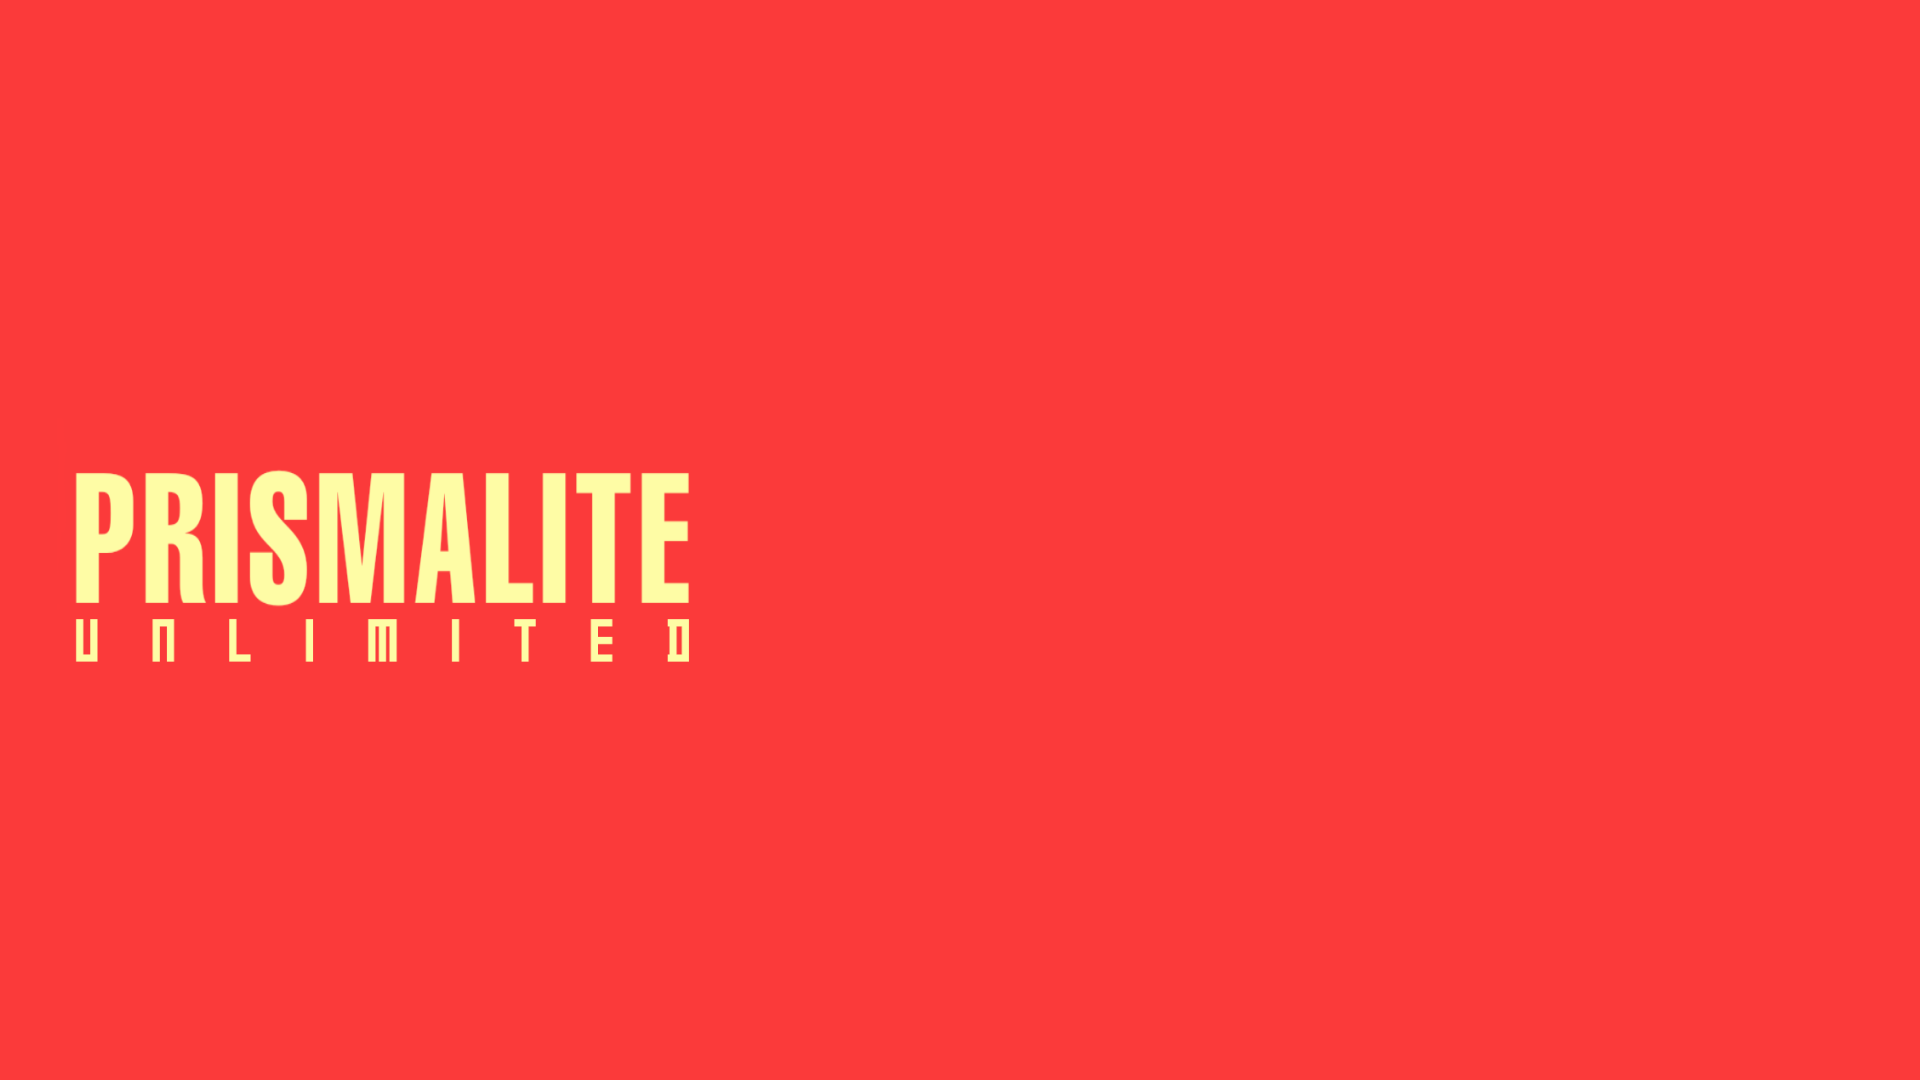
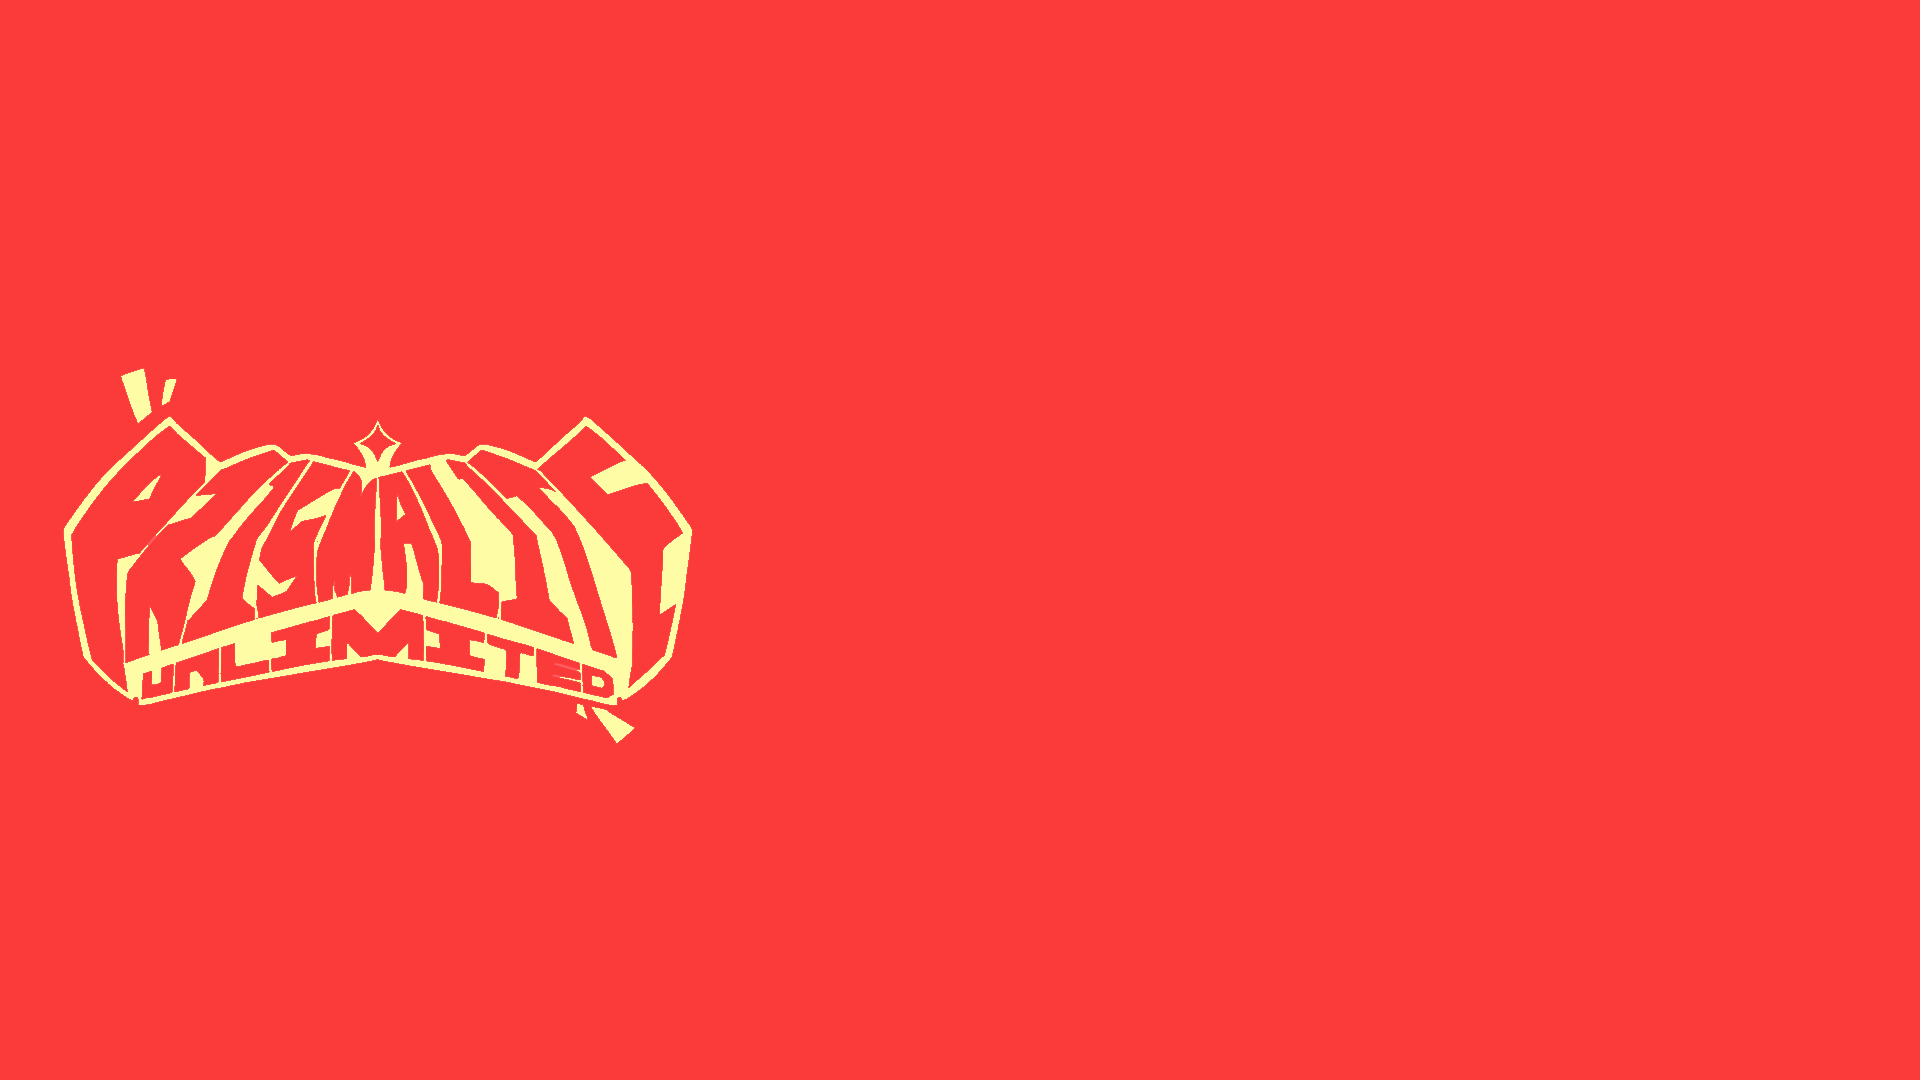
Add files via upload

Changed region(s): [[0.0312, 0.3361, 0.375, 0.7028]]

diff --git a/index.html b/index.html
@@ -8,6 +8,7 @@
     <link rel="stylesheet" href="style.css">
 </head>
 <body>
+
     <header id="header">
         <div class="header__container">
             <div class="flex__container">
@@ -17,13 +18,13 @@
                 <nav class="nav__header">
                     <ul>
                         <li class="nav__item"><a href="#home">Home</a></li>
-                        <li class="nav__item"><a href="404.html">Jogos</a></li>
+                        <li class="nav__item"><a href="#game">Jogos</a></li>
                         <li class="nav__item"><a href="#about">Sobre</a></li>
                     </ul>
                 </nav>
-                <div class="play__btn">
-                    <a href="" target=""><button class="btn">Breve!</button></a>
-                </div>
+                <!-- <div class="play__btn">
+                    <a href="rivals.html" target=""><button class="btn">Breve!</button></a>
+                </div> -->
             </div>
             <!-- Responsive Header -->
         <div class="resp__header" id="resp__header">
@@ -33,7 +34,7 @@
             <nav class="nav_resp__header">
                 <ul>
                     <li class="nav__item"><a href="#home">Home</a></li>
-                    <li class="nav__item"><a href="games.html">Jogos</a></li>
+                    <li class="nav__item"><a href="#game">Jogos</a></li>
                     <li class="nav__item"><a href="#about">Sobre</a></li>
                 </ul>
             </nav>
@@ -42,32 +43,57 @@
     </header>
     <div class="container">
         <div class="banner__home" id="home">
-            <img src="helltower-logo.png" alt="Assault on the Helltower™ Logo" class="home__logo" >
-            <div class="gx__btn">
-                <a href="" target=""><button>Em breve!</button></a>
+            <img src="rivals_logo_common.png" alt="Rivals to the Death™ Logo" class="home__logo" >
+            <div class="play__btn__focus">
+                <a href="rivals.html" target=""><button>RIVALIZAR!</button></a>
+            </div>
+            
+        </div>
+        <div class="banner__game__vdo hidden" id="game">
+            <div class="shadow">
+                <div class="game__desc">
+                    <div class="game__logo">
+                        <img src="primordial_no_prism.png" alt="" width="100"><br><br>
+                    </div>
+                    <div class="game__logo">
+                        <img src="vdo-logo.png" alt="" width="500"><br><br>
+                    </div>
+                    
+                    <span></span>
+                    <p>Neste jogo, jogue como um cientista novato chamado pela Moonlit Co. para tentar desativar um sistema de segurança desenvolvido pela FUNDADORA, que usa a matemática a seu favor para impedir o acesso ao seu escritório. Cabe a você lutar com chefes e mini chefes, e destruír o mal pela RAIZ de uma vez por todas.</p>
+                    <p></p>
+                    <p class="spacing">Primeiro jogo desenvolvido pela nossa equipe "Primordial Studios", Demonstração já disponível em Itch.IO!.</p>
+                    <p></p>
+                    <div class="play__btn__vdo">
+                        <a href="https://primordial-studios.itch.io/math-test" target="_blank"><button class="btn">JOGAR!</button></a>
+                    </div>
+                </div>
             </div>
         </div>
-        <div class="banner__game hidden" id="game">
+
+        <div class="banner__game hidden" id="">
             <div class="shadow">
                 <div class="game__desc">
                     <div class="game__logo">
                         <img src="lucius-logo.png" alt="" width="300"><br><br>
                     </div>
-                    <span>Conheça Lucius, um jovem alucinado que tenta deter uma invasão alienígena para poder... DORMIR?!?!</span>
-                    <p>Corra pela praia de Panicking Paradise matando aliens e coletando medalhas de ouro para vencer o jogo.</p>
+                    <span>Conheça Lucius, um jovem alucinado que tenta deter uma invasão alienígena para poder... DORMIR?!</span>
+                    <p>Corra pela praia de Panicking Paradise nesse jogo curto e sem fim, matando aliens e coletando medalhas de ouro para vencer o jogo.</p>
                     <p></p>
-                    <p class="spacing">Já disponivel em GX.Games (Windows), a versão mobile pode chegar futuramente.</p>
+                    <p class="spacing">Momentaneamente indisponível.</p>
                     <div class="play__btn">
-                        <a href="https://gx.games/pt-br/games/cwtrzj/beat-em-lucius-encore-update-coming-soon-/" target="_blank"><button class="btn">JOGAR!</button></a>
+                        <!-- Não mostrar ppr enquanto. <a href="https://gx.games/pt-br/games/cwtrzj/beat-em-lucius-encore-update-coming-soon-/" target="_blank"><button class="btn">JOGAR!</button></a>-->
                     </div>
                 </div>
             </div>
         </div>
+
+
         <div class="banner__prism hidden" id="about">
             <div class="shadow">
                 <div class="prism__desc">
-                    <span>PRISMALITE: UMA DUPLA DE AMIGOS</span>
-                    <p>A Prismalite UNLIMITED, Inc. foi criada após o desenvolvimento de "Beat 'Em, Lucius!", um jogo feito por uma dupla de amigos como um trabalho escolar, e por terem gostado de sua criação, decidiu-se então que iriam continuar com tal projeto, porém como uma "empresa". Hoje Victor Luis e João Pedro trabalham em conjunto para melhorarem mais o jogo.</p>
+                    <span>PRISMALITE: Jogos indies diferentes e criativos.</span>
+                    <p>A Prismalite UNLIMITED, Studios. foi criada após o desenvolvimento de "Beat 'Em, Lucius!", um jogo feito como projeto escolar que deu inicio a diversos outros projetos, como "V-DO's Math Test", e o que está por vir, "Rivals to the Death".</p>
                 </div>
             </div>
         </div>
@@ -77,7 +103,7 @@
             <img src="prismalite-red-logo.png" alt="Prismalite Logo" id="prism-logo">
         </div>
         <div class="rights">
-            <p>&copy;2023 - 2024  Todos os direitos reservados</p>
+            <p>&copy; 2023 - 2025 | Prismalite UNLIMITED, Studios., Todos os direitos reservados.</p>
         </div>
         <div class="social__medias">
             <a href="https://www.instagram.com/prisma.lite/" target="_blank"><img src="instagram-logo.png" alt="Instagram Logo"></a>

diff --git a/animation.js b/animation.js
@@ -1,4 +1,4 @@
-var red = 'prismalite-red-logo.png';
+var red = 'prismalite_logo_colored.png';
 var dft = 'prismalite-logo.png';
 
 window.addEventListener("scroll", function(){
